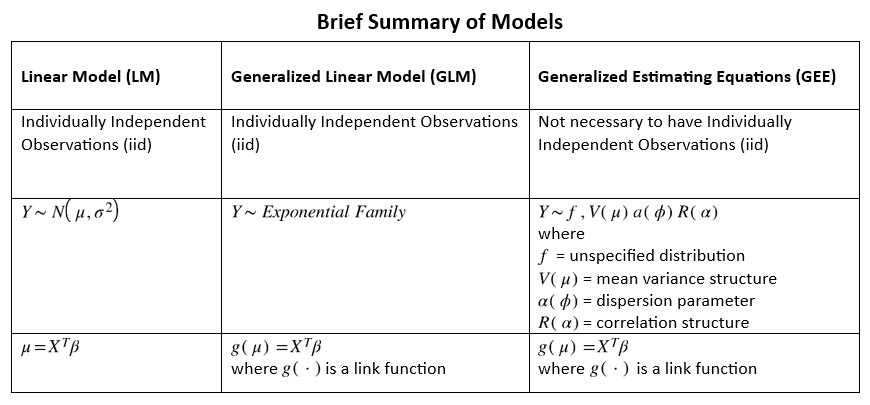
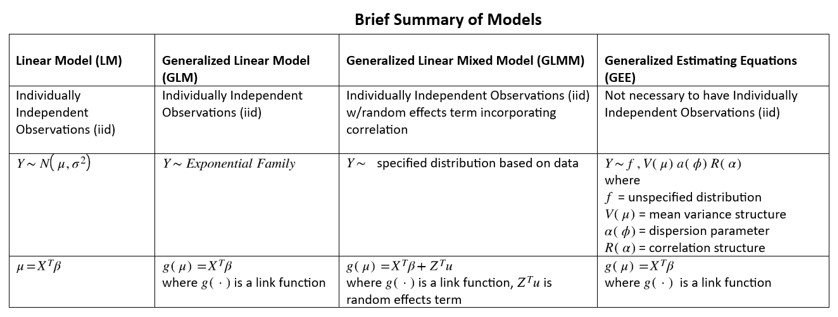
Added a column to Brief Summary of Models

Changed region(s): [[0.0, 0.0284, 0.9928, 0.9937], [0.5895, 0.5678, 0.6826, 0.5962], [0.4033, 0.3975, 0.4964, 0.4259]]

diff --git a/index.html b/index.html
@@ -152,8 +152,8 @@ div.csl-indent {
 </section>
 <section id="model-specification" class="level3">
 <h3 class="anchored" data-anchor-id="model-specification">Model Specification</h3>
-<p>GEE is an extension of generalized linear models (GLM) and uses that framework to specify the relationship between the response variable and the regressor variables. <span class="citation" data-cites="shao2023comparison">(<a href="#ref-shao2023comparison" role="doc-biblioref">Shao et al. 2023</a>)</span> The choice of the link function and the distribution of the response variable depends on the nature of the data.<span class="citation" data-cites="gayen2018generalized">(<a href="#ref-gayen2018generalized" role="doc-biblioref">Gayen and Kumar 2018</a>)</span> Models can be created for continuous, binary or count outcomes. The table below shows the extension of GEE from the GLM and LM and differences in assumptions.</p>
-<p><img src="Model_Comparison_Table.jpg" class="img-fluid"></p>
+<p>GEE is an extension of generalized linear models (GLM) and uses that framework to specify the relationship between the response variable and the regressor variables. <span class="citation" data-cites="shao2023comparison">(<a href="#ref-shao2023comparison" role="doc-biblioref">Shao et al. 2023</a>)</span> The choice of the link function and the distribution of the response variable depends on the nature of the data.<span class="citation" data-cites="gayen2018generalized">(<a href="#ref-gayen2018generalized" role="doc-biblioref">Gayen and Kumar 2018</a>)</span> Models can be created for continuous, binary or count outcomes. The table below shows the extension of GEE from the LM, GLM,and GLMM and differences in assumptions.</p>
+<p><img src="Model_Comparison_Table.jpg" class="img-fluid"> Information in table summarized from <span class="citation" data-cites="Mcculloch2008">(<a href="#ref-Mcculloch2008" role="doc-biblioref">S. McCulloch C. 2008</a>)</span></p>
 <p>According the Liang and Zeger, the method of GEE, longitudinal data sets, are comprised of an outcome variable, <span class="math inline">\(y_{it}\)</span>, and $$p\times1$$ vector of covariates, <span class="math inline">\(x_{it}\)</span>, observed at times <span class="math display">\[t=1,...,n_{it}\]</span> for subjects <span class="math display">\[i=1,...,K\]</span> which arise often in applied sciences. <span class="citation" data-cites="Liang1986longitudinal">(<a href="#ref-Liang1986longitudinal" role="doc-biblioref">Liang and Zeger 1986</a>)</span> For example, in health care study data, individual patients have follow visits to monitor a treatment plan and therefore have multiple observations for each patient. GEE is used for these kind of longitudinal datasets due to the use of correlation structures in its modeling design to account for the lack of independence in the repeated observations.</p>
 <p>In Wang’s review of GEE method, a marginal model specifying a relationship between <span class="math inline">\(\mu_i\)</span> and <span class="math inline">\(X_{ij}\)</span> is given by the equation <span class="math inline">\(g(\mu_{ij})=X'_{ij} \beta\)</span>, where <span class="math inline">\(g\)</span> is the link function and <span class="math inline">\(\beta\)</span> is a vector of regression coefficients and then shows the mathematical calculations to get to the equation</p>
 <p><span class="math inline">\(U(\beta) = \sum_{i=1}^K {D_i}^{\prime} {V_i}^{-1}(Y_i-\mu_i)=0\)</span></p>
@@ -746,6 +746,9 @@ gee_ar1          513  500      -244 12.7      6  516</code></pre>
 <div id="quarto-appendix" class="default"><section class="quarto-appendix-contents" role="doc-bibliography"><h2 class="anchored quarto-appendix-heading">References</h2><div id="refs" class="references csl-bib-body hanging-indent" role="list">
 <div id="ref-agresti2015foundations" class="csl-entry" role="listitem">
 Agresti, Alan. 2015. <em>Foundations of Linear and Generalized Linear Models</em>. John Wiley &amp; Sons.
+</div>
+<div id="ref-barnhart1998goodness" class="csl-entry" role="listitem">
+Barnhart, Huiman X, and John M Williamson. 1998. <span>“Goodness-of-Fit Tests for GEE Modeling with Binary Responses.”</span> <em>Biometrics</em>, 720–29.
 </div>
 <div id="ref-Burton1998" class="csl-entry" role="listitem">
 Burton, Lyle Gurrin, Paul, and Peter Sly. 1998. <span>“Extending the Simple Linear Regression Model to Account for Correlated Responses: An Introduction to Generalized Estimating Equations and Multi-Level Mixed Modelling.”</span> <em>Statistics in Medicine</em> 17 (11): 1261–91. <a href="https://doi.org/10.1002/(SICI)1097-0258(19980615)17:11<1261::AID-SIM846>3.0.CO;2-Z">https://doi.org/10.1002/(SICI)1097-0258(19980615)17:11&lt;1261::AID-SIM846&gt;3.0.CO;2-Z</a>.
